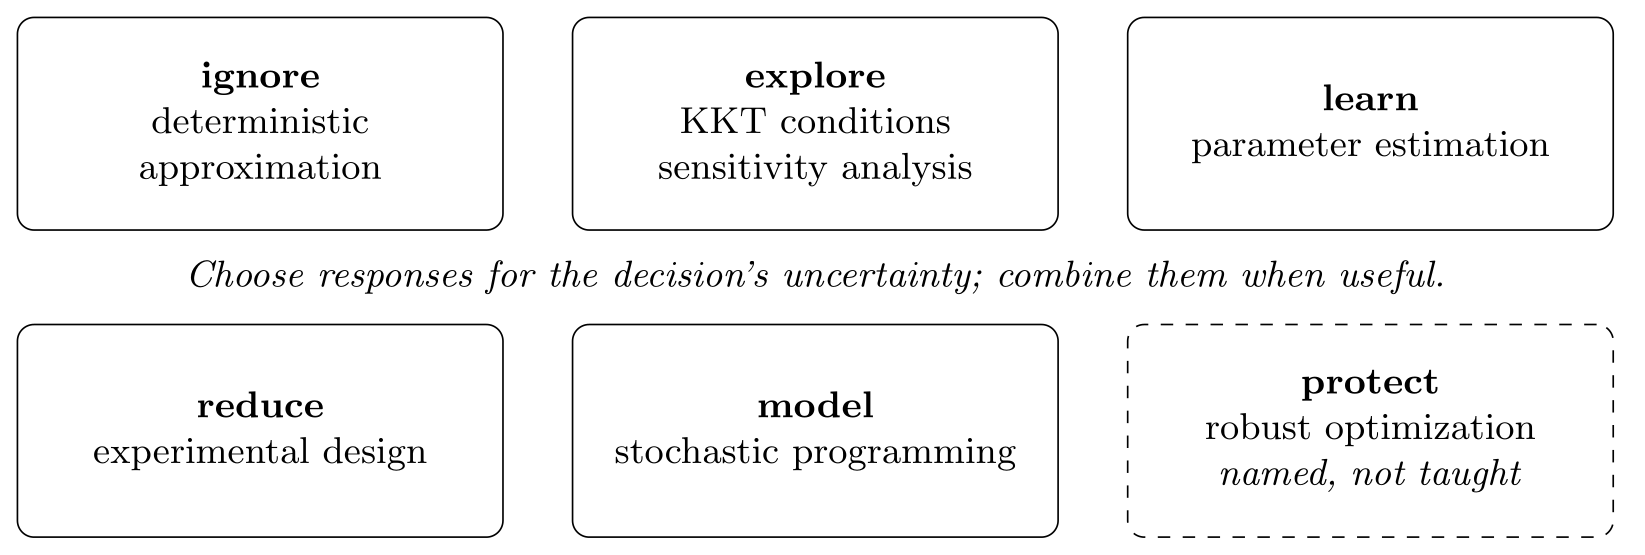
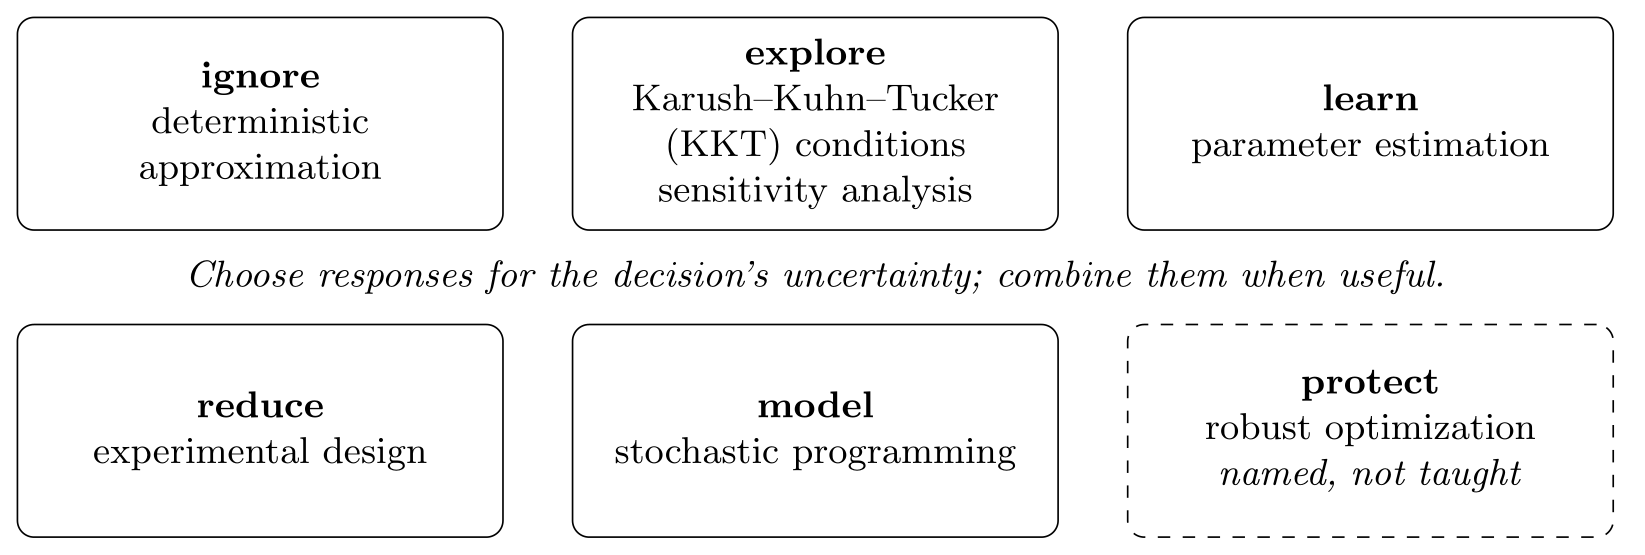
uncertainty-responses: spell out Karush-Kuhn-Tucker (KKT) conditions
Lecture 27 prints this figure, and the November 1 rules spell an
abbreviation out where a section uses it. The text wraps inside the
existing box, so the figure keeps its size (1645 x 555 px PNG) and the
handout's page breaks are unchanged. Only this figure was re-rendered;
check_greyscale passes.

Changed region(s): [[0.372, 0.0613, 0.6201, 0.3676]]

diff --git a/figures/tikz/uncertainty-responses.tex b/figures/tikz/uncertainty-responses.tex
@@ -6,7 +6,7 @@
 \begin{tikzpicture}[font=\small,
  response/.style={draw=black,rounded corners,text width=39mm,minimum height=18mm,align=center,inner sep=3pt}]
 \node[response] at (0,0) {\textbf{ignore}\\deterministic approximation};
-\node[response] at (4.7,0) {\textbf{explore}\\KKT conditions\\sensitivity analysis};
+\node[response] at (4.7,0) {\textbf{explore}\\Karush--Kuhn--Tucker (KKT) conditions\\sensitivity analysis};
 \node[response] at (9.4,0) {\textbf{learn}\\parameter estimation};
 \node[response] at (0,-2.6) {\textbf{reduce}\\experimental design};
 \node[response] at (4.7,-2.6) {\textbf{model}\\stochastic programming};
